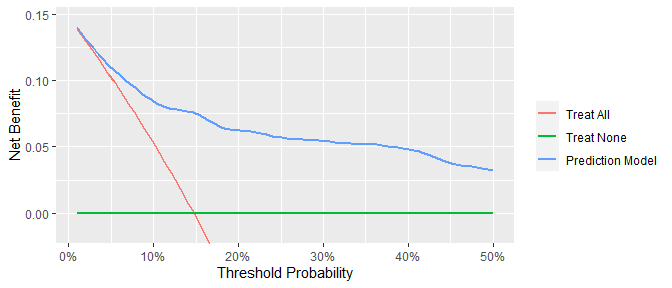
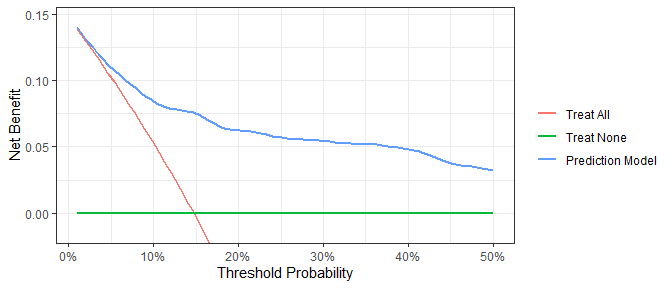
updates

Changed region(s): [[0.0938, 0.8438, 0.75, 0.875], [0.0938, 0.0, 0.75, 0.0312]]

diff --git a/README.md b/README.md
@@ -30,14 +30,14 @@ devtools::install_github("ddsjoberg/dcurves")
 
 ## Examples
 
-To assess models predicting binary endpoints.
+Assess models predicting binary endpoints.
 
 ``` r
 library(dcurves)
 
-dca(cancer ~ cancerpredmarker, 
+dca(cancer ~ cancerpredmarker + famhistory, 
     data = df_binary,
-    thresholds = seq(0, 0.35, 0.01),
+    thresholds = seq(0, 0.35, by = 0.01),
     label = list(cancerpredmarker = "Prediction Model")) %>%
   autoplot(smooth = TRUE)
 #> Assuming '1' is [Event] and '0' is [non-Event]
@@ -51,9 +51,31 @@ Time-to-event or survival endpoints
 dca(Surv(ttcancer, cancer) ~ cancerpredmarker, 
     data = df_surv, 
     time = 1,
-    thresholds = seq(0, 0.50, 0.01),
+    thresholds = seq(0, 0.50, by = 0.01),
     label = list(cancerpredmarker = "Prediction Model")) %>%
   autoplot(smooth = TRUE)
 ```
 
 <img src="man/figures/README-example2-1.png" width="100%" />
+
+Create a customized DCA figure by first printing the ggplot code
+
+``` r
+gg_dca <-
+  dca(cancer ~ cancerpredmarker, 
+    data = df_binary,
+    thresholds = seq(0, 0.35, by = 0.01),
+    label = list(cancerpredmarker = "Prediction Model")) %>%
+  autoplot(smooth = TRUE, show_ggplot_code = TRUE)
+#> Assuming '1' is [Event] and '0' is [non-Event]
+#> # ggplot2 code to create DCA figure -------------------------------
+#> as_tibble(object) %>%
+#>   dplyr::filter(!is.na(net_benefit)) %>%
+#>   ggplot(aes(x = threshold, y = net_benefit, color = label)) +
+#>   stat_smooth(method = "loess", se = FALSE, formula = "y ~ x", 
+#>     span = 0.2) +
+#>   coord_cartesian(ylim = c(-0.014, 0.14)) +
+#>   scale_x_continuous(labels = scales::percent_format(accuracy = 1)) +
+#>   labs(x = "Threshold Probability", y = "Net Benefit", color = "") +
+#>   theme_bw()
+```
